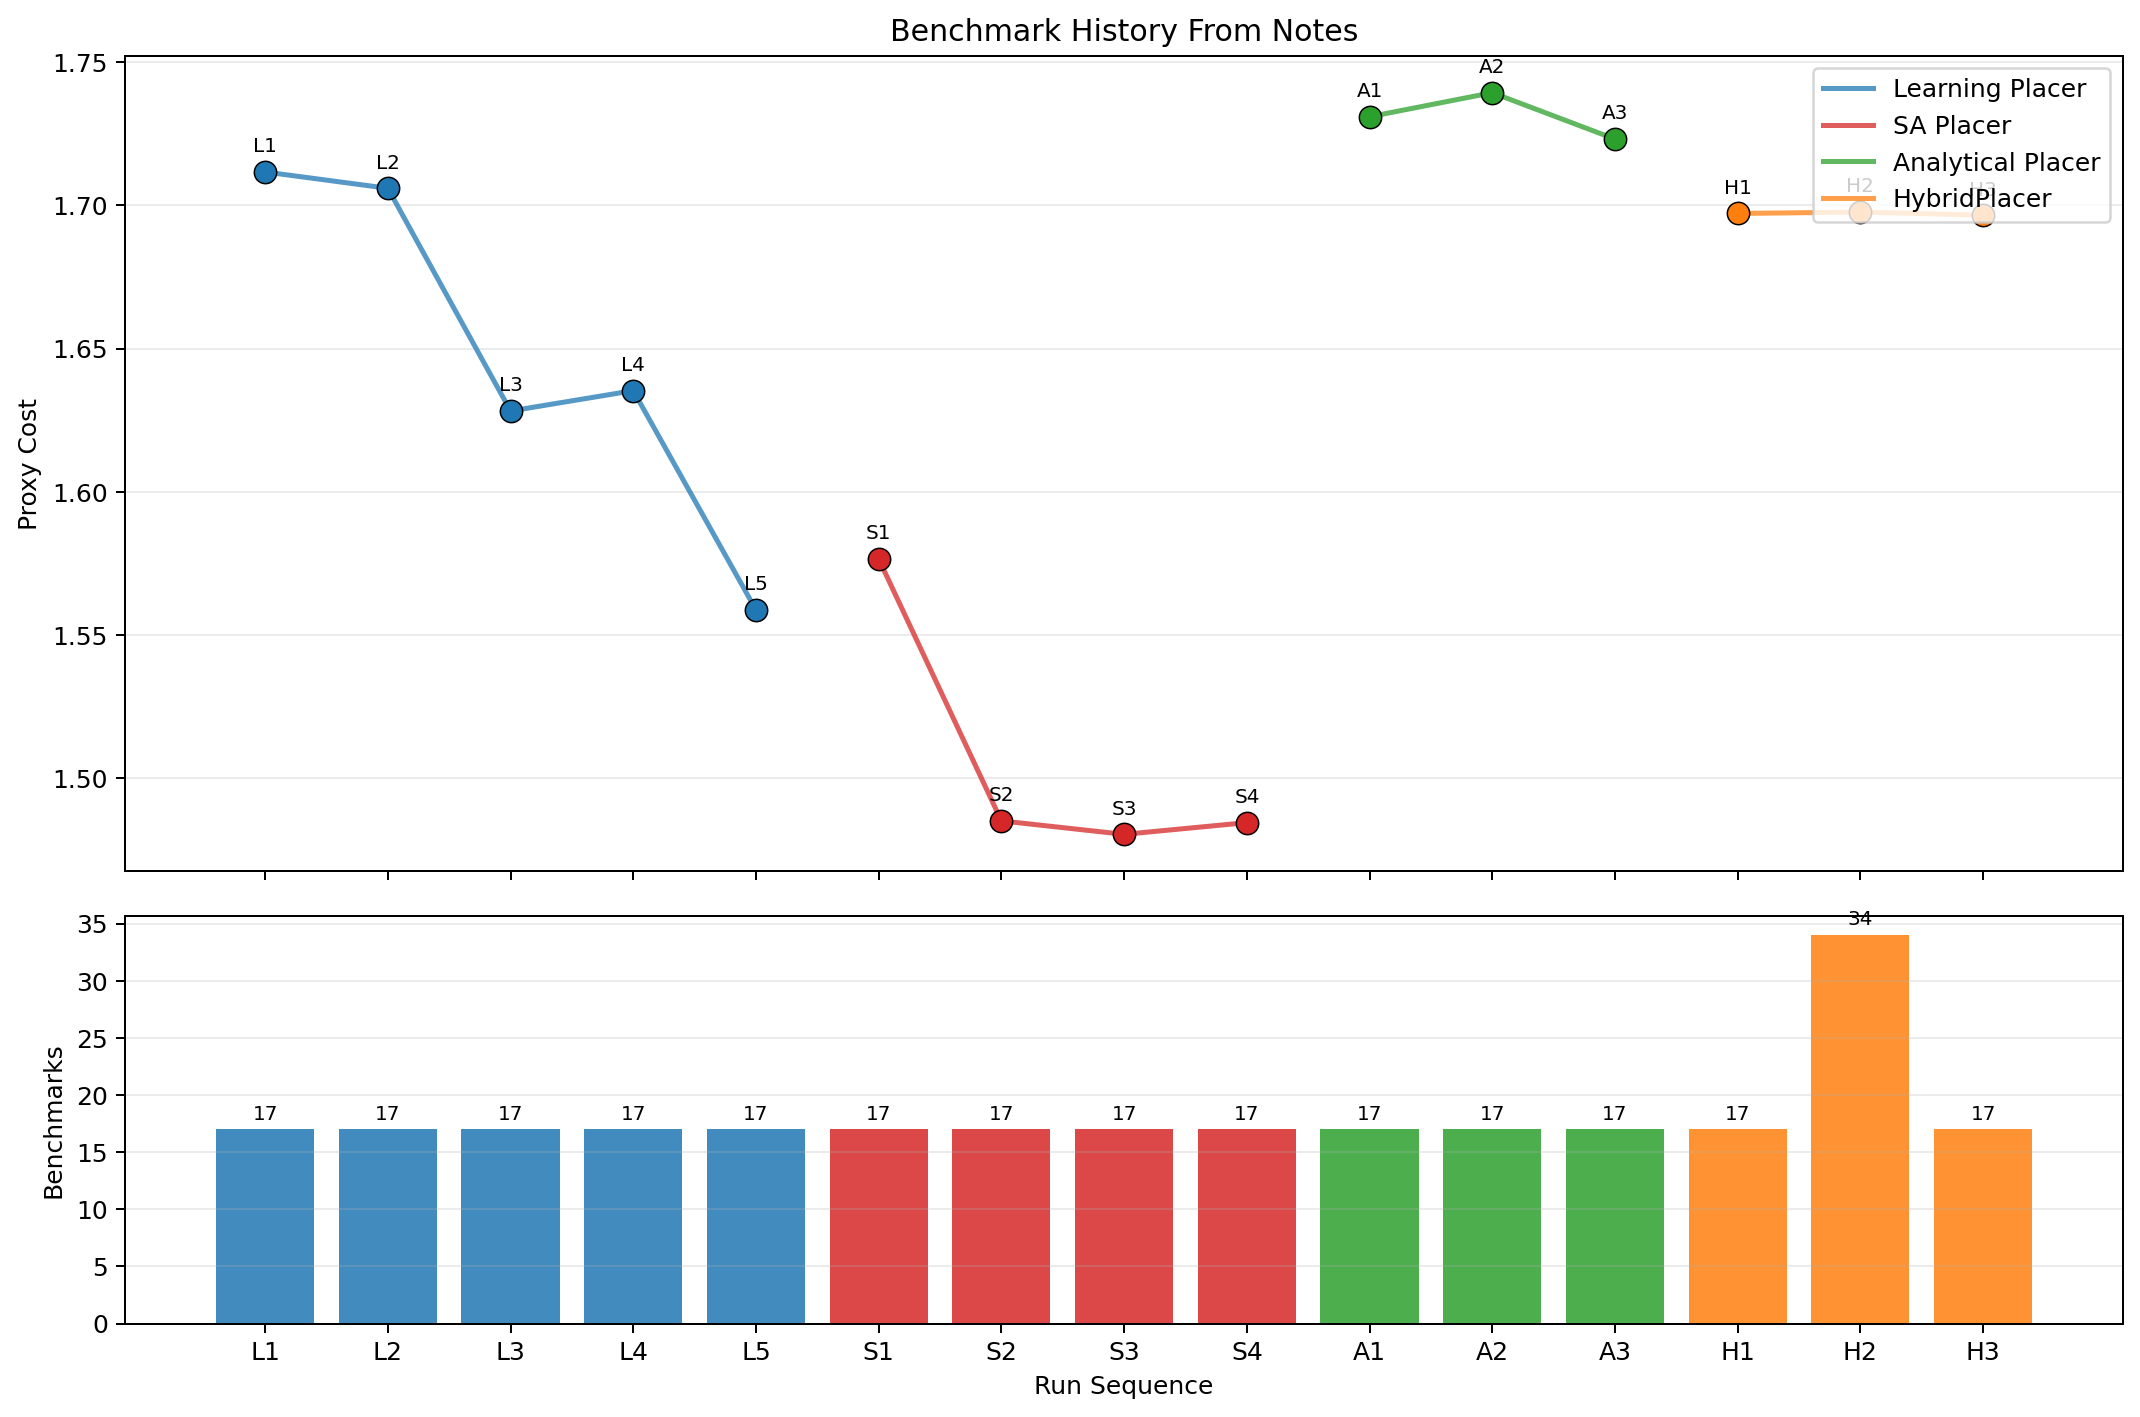
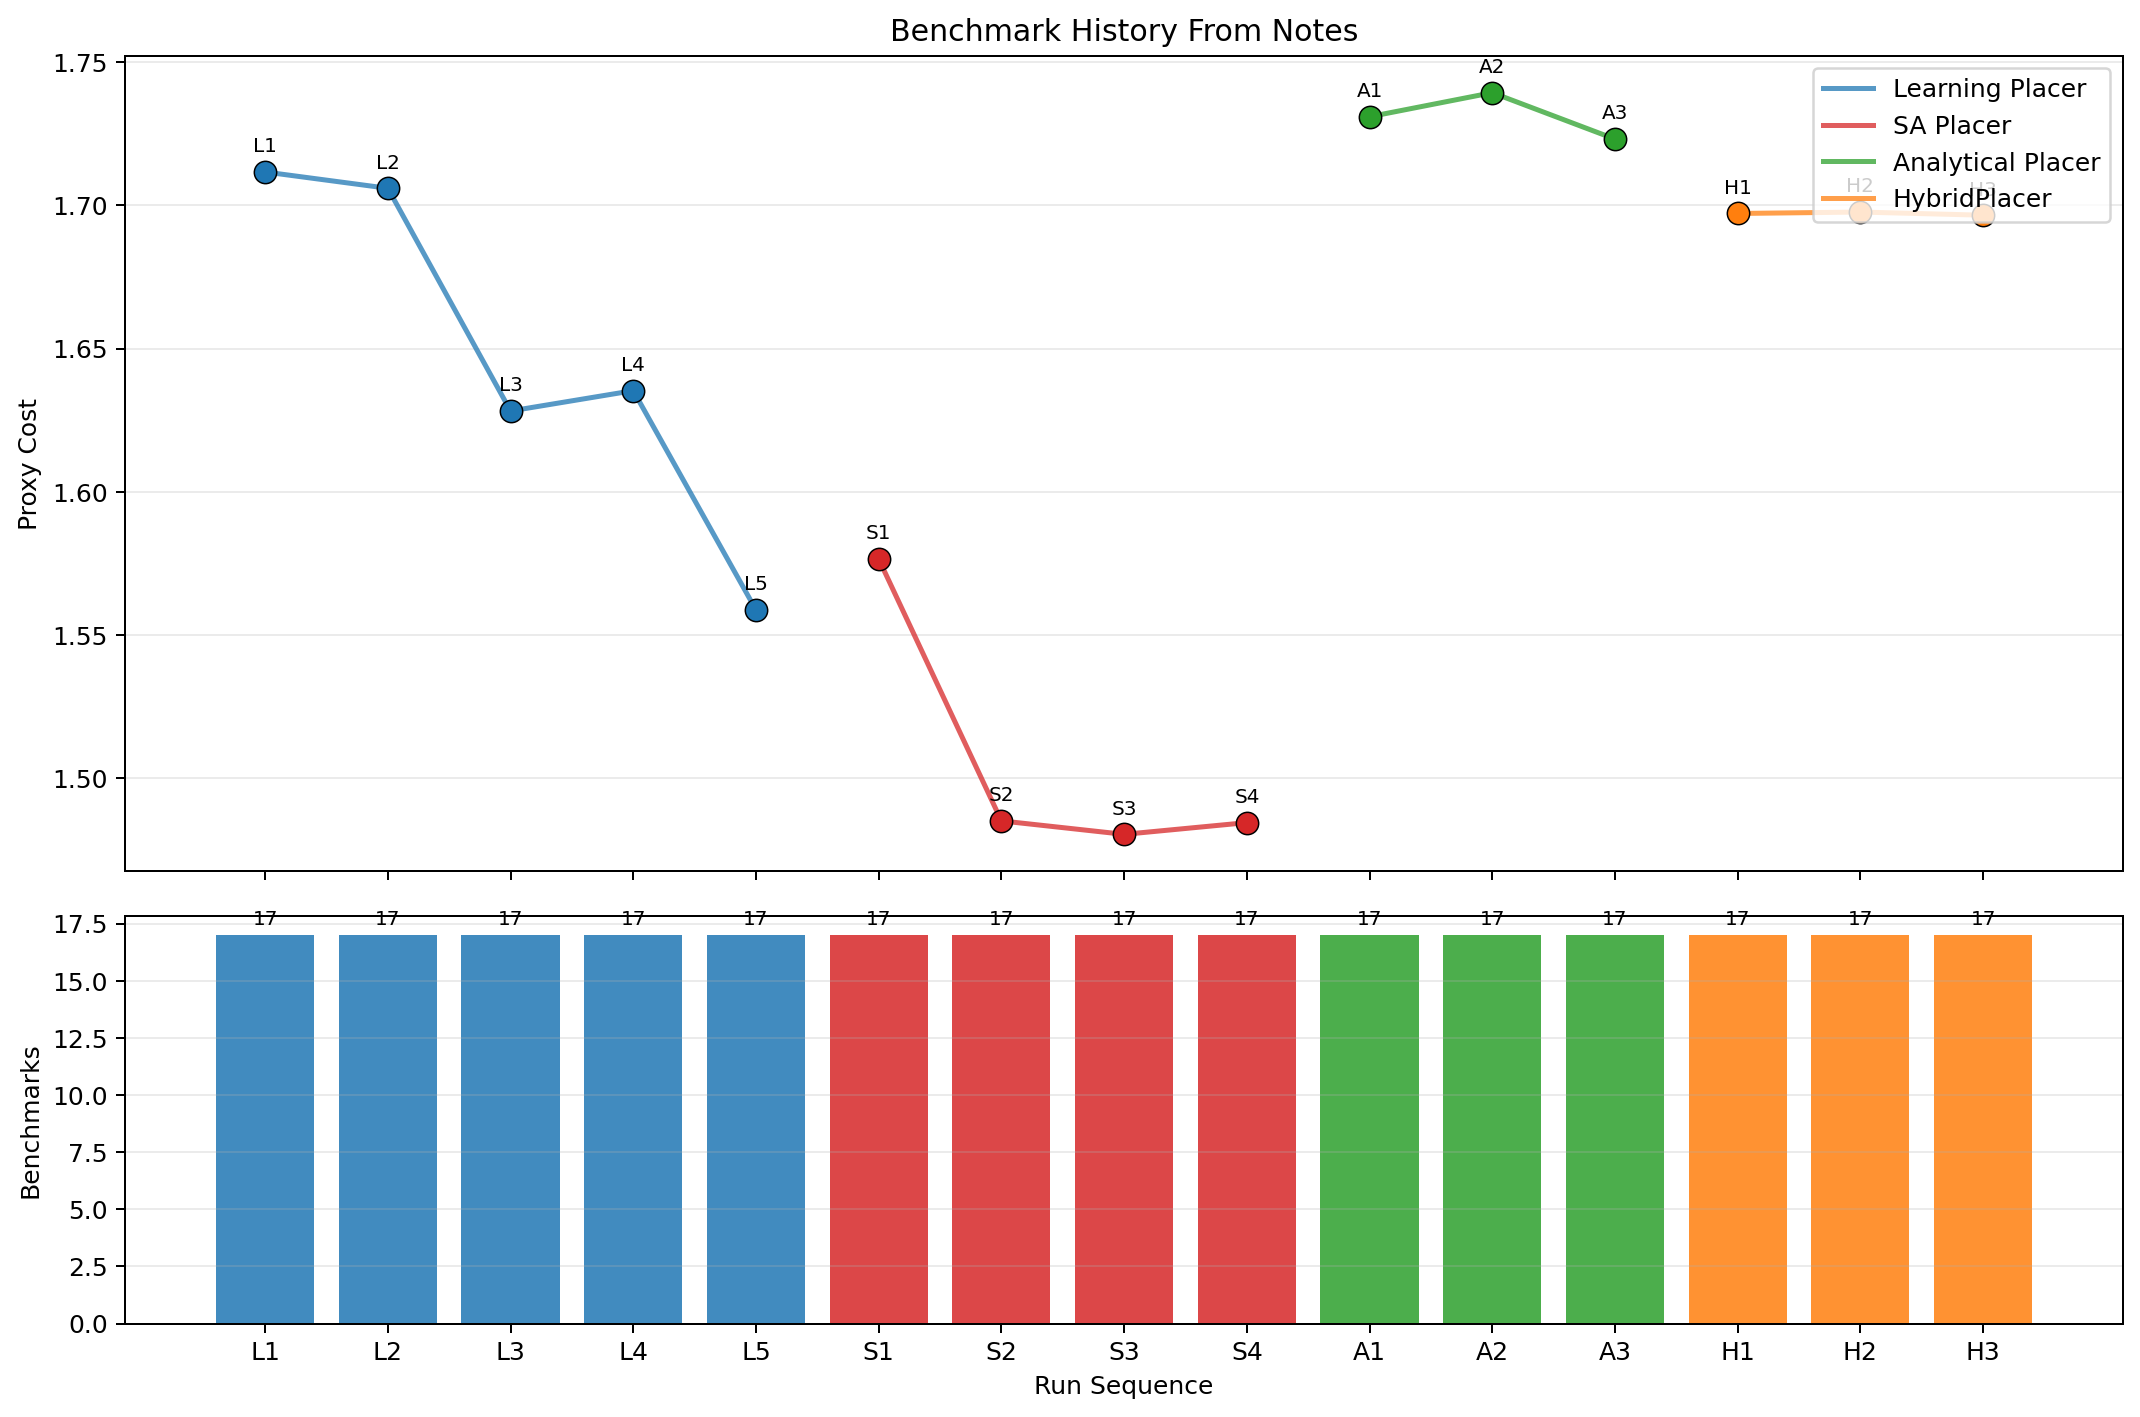
Benchmark Results

Changed region(s): [[0.0925, 0.6521, 0.8327, 0.8073], [0.8944, 0.6521, 0.9561, 0.8073], [0.0, 0.7452, 0.0308, 0.8384]]

diff --git a/notes/benchmark history/generate_benchmark_history.py b/notes/benchmark history/generate_benchmark_history.py
@@ -178,12 +178,19 @@ def parse_hybrid() -> tuple[list[RunRecord], list[dict[str, object]]]:
         total_runtime_s = float(runtime_match.group(1)) if runtime_match else None
 
         benchmarks: list[BenchmarkRow] = []
+        # Only parse the FIRST table in the section (stop after AVG row)
+        in_table = False
         for line in section.splitlines():
             if not line.startswith("|"):
+                if in_table and benchmarks:
+                    break  # left the first table, stop
                 continue
+            in_table = True
             parts = [part.strip() for part in line.strip().strip("|").split("|")]
-            if parts[0] in {"Benchmark", "-----------", "**AVG**"}:
+            if parts[0] in {"Benchmark", "-----------"}:
                 continue
+            if parts[0] == "**AVG**":
+                break  # end of first table
             if not re.fullmatch(r"ibm\d+", parts[0]):
                 continue
             # Support both the original detailed hybrid table:

diff --git a/notes/benchmark history/benchmark_history_raw.md b/notes/benchmark history/benchmark_history_raw.md
@@ -19,7 +19,7 @@ Generated from the note files in this directory.
 | A2 | Analytical Placer | 2026-04-04 | Analytical Placer (PLACER_METHOD=analytical) | full_suite | 17 | 1.7394 | 1.7394 | 598.68 | (SA + Analytical method) Omnellnotes.md |
 | A3 | Analytical Placer | 2026-04-05 | Analytical Placer v3 (PLACER_METHOD=analytical) | full_suite | 17 | 1.7232 | 1.7232 | 1362.00 | (SA + Analytical method) Omnellnotes.md |
 | H1 | HybridPlacer | 2026-04-03 | Analytical -> SA pipeline benchmark run | full_suite | 17 | 1.6972 | 1.6972 | 1492.67 | (Hybrid method)novaknotes.md |
-| H2 | HybridPlacer | 2026-04-04, --no-media | Analytical -> SA pipeline benchmark run | full_suite | 34 | 1.6977 | 1.6977 | 324.72 | (Hybrid method)novaknotes.md |
+| H2 | HybridPlacer | 2026-04-04, --no-media | Analytical -> SA pipeline benchmark run | full_suite | 17 | 1.6977 | 1.6977 | 324.72 | (Hybrid method)novaknotes.md |
 | H3 | HybridPlacer | 2026-04-06 | Analytical -> SA pipeline benchmark run | full_suite | 17 | 1.6966 | 1.6966 | 3998.65 | (Hybrid method)novaknotes.md |
 
 ## Benchmark-Level Records
@@ -248,39 +248,22 @@ Generated from the note files in this directory.
 | H1 | HybridPlacer | ibm17 | 1.7813 | 0.052 | 1.004 | 2.454 | 123.00 | (Hybrid method)novaknotes.md |
 | H1 | HybridPlacer | ibm18 | 1.8320 | 0.053 | 1.111 | 2.447 | 62.00 | (Hybrid method)novaknotes.md |
 | H2 | HybridPlacer | ibm01 | 1.2477 | 0.066 | 1.034 | 1.330 | 11.28 | (Hybrid method)novaknotes.md |
-| H2 | HybridPlacer | ibm01 | 1.2362 | 0.065 | 1.035 | 1.308 | 98.00 | (Hybrid method)novaknotes.md |
 | H2 | HybridPlacer | ibm02 | 1.7787 | 0.080 | 0.991 | 2.407 | 17.21 | (Hybrid method)novaknotes.md |
-| H2 | HybridPlacer | ibm02 | 1.7591 | 0.079 | 0.982 | 2.378 | 109.00 | (Hybrid method)novaknotes.md |
 | H2 | HybridPlacer | ibm03 | 1.7756 | 0.079 | 1.140 | 2.254 | 12.08 | (Hybrid method)novaknotes.md |
-| H2 | HybridPlacer | ibm03 | 1.7819 | 0.078 | 1.147 | 2.261 | 103.00 | (Hybrid method)novaknotes.md |
 | H2 | HybridPlacer | ibm04 | 1.6133 | 0.069 | 1.057 | 2.032 | 14.20 | (Hybrid method)novaknotes.md |
-| H2 | HybridPlacer | ibm04 | 1.6181 | 0.068 | 1.060 | 2.040 | 101.00 | (Hybrid method)novaknotes.md |
 | H2 | HybridPlacer | ibm06 | 2.0305 | 0.063 | 1.053 | 2.882 | 8.20 | (Hybrid method)novaknotes.md |
-| H2 | HybridPlacer | ibm06 | 2.0324 | 0.063 | 1.050 | 2.889 | 73.00 | (Hybrid method)novaknotes.md |
 | H2 | HybridPlacer | ibm07 | 1.6873 | 0.064 | 1.083 | 2.162 | 9.58 | (Hybrid method)novaknotes.md |
-| H2 | HybridPlacer | ibm07 | 1.6864 | 0.064 | 1.084 | 2.160 | 111.00 | (Hybrid method)novaknotes.md |
 | H2 | HybridPlacer | ibm08 | 1.8384 | 0.067 | 1.135 | 2.407 | 14.96 | (Hybrid method)novaknotes.md |
-| H2 | HybridPlacer | ibm08 | 1.8342 | 0.067 | 1.141 | 2.394 | 121.00 | (Hybrid method)novaknotes.md |
 | H2 | HybridPlacer | ibm09 | 1.2531 | 0.057 | 1.006 | 1.386 | 10.07 | (Hybrid method)novaknotes.md |
-| H2 | HybridPlacer | ibm09 | 1.2505 | 0.057 | 1.000 | 1.387 | 121.00 | (Hybrid method)novaknotes.md |
 | H2 | HybridPlacer | ibm10 | 1.6922 | 0.059 | 0.996 | 2.269 | 47.64 | (Hybrid method)novaknotes.md |
-| H2 | HybridPlacer | ibm10 | 1.6951 | 0.059 | 0.994 | 2.279 | 263.00 | (Hybrid method)novaknotes.md |
 | H2 | HybridPlacer | ibm11 | 1.4209 | 0.054 | 1.089 | 1.646 | 12.23 | (Hybrid method)novaknotes.md |
-| H2 | HybridPlacer | ibm11 | 1.4258 | 0.054 | 1.086 | 1.658 | 109.00 | (Hybrid method)novaknotes.md |
 | H2 | HybridPlacer | ibm12 | 1.9854 | 0.062 | 1.067 | 2.780 | 29.96 | (Hybrid method)novaknotes.md |
-| H2 | HybridPlacer | ibm12 | 1.9837 | 0.062 | 1.066 | 2.778 | 175.00 | (Hybrid method)novaknotes.md |
 | H2 | HybridPlacer | ibm13 | 1.6461 | 0.053 | 1.114 | 2.073 | 13.71 | (Hybrid method)novaknotes.md |
-| H2 | HybridPlacer | ibm13 | 1.6342 | 0.053 | 1.116 | 2.048 | 111.00 | (Hybrid method)novaknotes.md |
 | H2 | HybridPlacer | ibm14 | 1.7276 | 0.050 | 1.113 | 2.241 | 42.95 | (Hybrid method)novaknotes.md |
-| H2 | HybridPlacer | ibm14 | 1.7251 | 0.050 | 1.107 | 2.242 | 283.00 | (Hybrid method)novaknotes.md |
 | H2 | HybridPlacer | ibm15 | 1.8139 | 0.058 | 1.143 | 2.370 | 21.77 | (Hybrid method)novaknotes.md |
-| H2 | HybridPlacer | ibm15 | 1.8139 | 0.057 | 1.142 | 2.371 | 137.00 | (Hybrid method)novaknotes.md |
 | H2 | HybridPlacer | ibm16 | 1.7381 | 0.047 | 1.050 | 2.331 | 23.69 | (Hybrid method)novaknotes.md |
-| H2 | HybridPlacer | ibm16 | 1.7451 | 0.047 | 1.044 | 2.352 | 158.00 | (Hybrid method)novaknotes.md |
 | H2 | HybridPlacer | ibm17 | 1.7802 | 0.052 | 1.003 | 2.453 | 24.28 | (Hybrid method)novaknotes.md |
-| H2 | HybridPlacer | ibm17 | 1.7833 | 0.052 | 1.006 | 2.457 | - | (Hybrid method)novaknotes.md |
 | H2 | HybridPlacer | ibm18 | 1.8326 | 0.053 | 1.106 | 2.454 | 10.89 | (Hybrid method)novaknotes.md |
-| H2 | HybridPlacer | ibm18 | 1.8340 | 0.053 | 1.109 | 2.453 | 61.00 | (Hybrid method)novaknotes.md |
 | H3 | HybridPlacer | ibm01 | 1.2362 | - | - | - | - | (Hybrid method)novaknotes.md |
 | H3 | HybridPlacer | ibm02 | 1.7591 | - | - | - | - | (Hybrid method)novaknotes.md |
 | H3 | HybridPlacer | ibm03 | 1.7848 | - | - | - | - | (Hybrid method)novaknotes.md |

diff --git a/notes/benchmark history/benchmark_history_summary.md b/notes/benchmark history/benchmark_history_summary.md
@@ -24,7 +24,7 @@ This graph summarizes the full-suite benchmark sections logged in the notes.
 | A2 | Analytical Placer | 2026-04-04 | full_suite | 1.7394 | 17 |
 | A3 | Analytical Placer | 2026-04-05 | full_suite | 1.7232 | 17 |
 | H1 | HybridPlacer | 2026-04-03 | full_suite | 1.6972 | 17 |
-| H2 | HybridPlacer | 2026-04-04, --no-media | full_suite | 1.6977 | 34 |
+| H2 | HybridPlacer | 2026-04-04, --no-media | full_suite | 1.6977 | 17 |
 | H3 | HybridPlacer | 2026-04-06 | full_suite | 1.6966 | 17 |
 
 Raw parsed data: [benchmark_history_raw.md](benchmark_history_raw.md)
